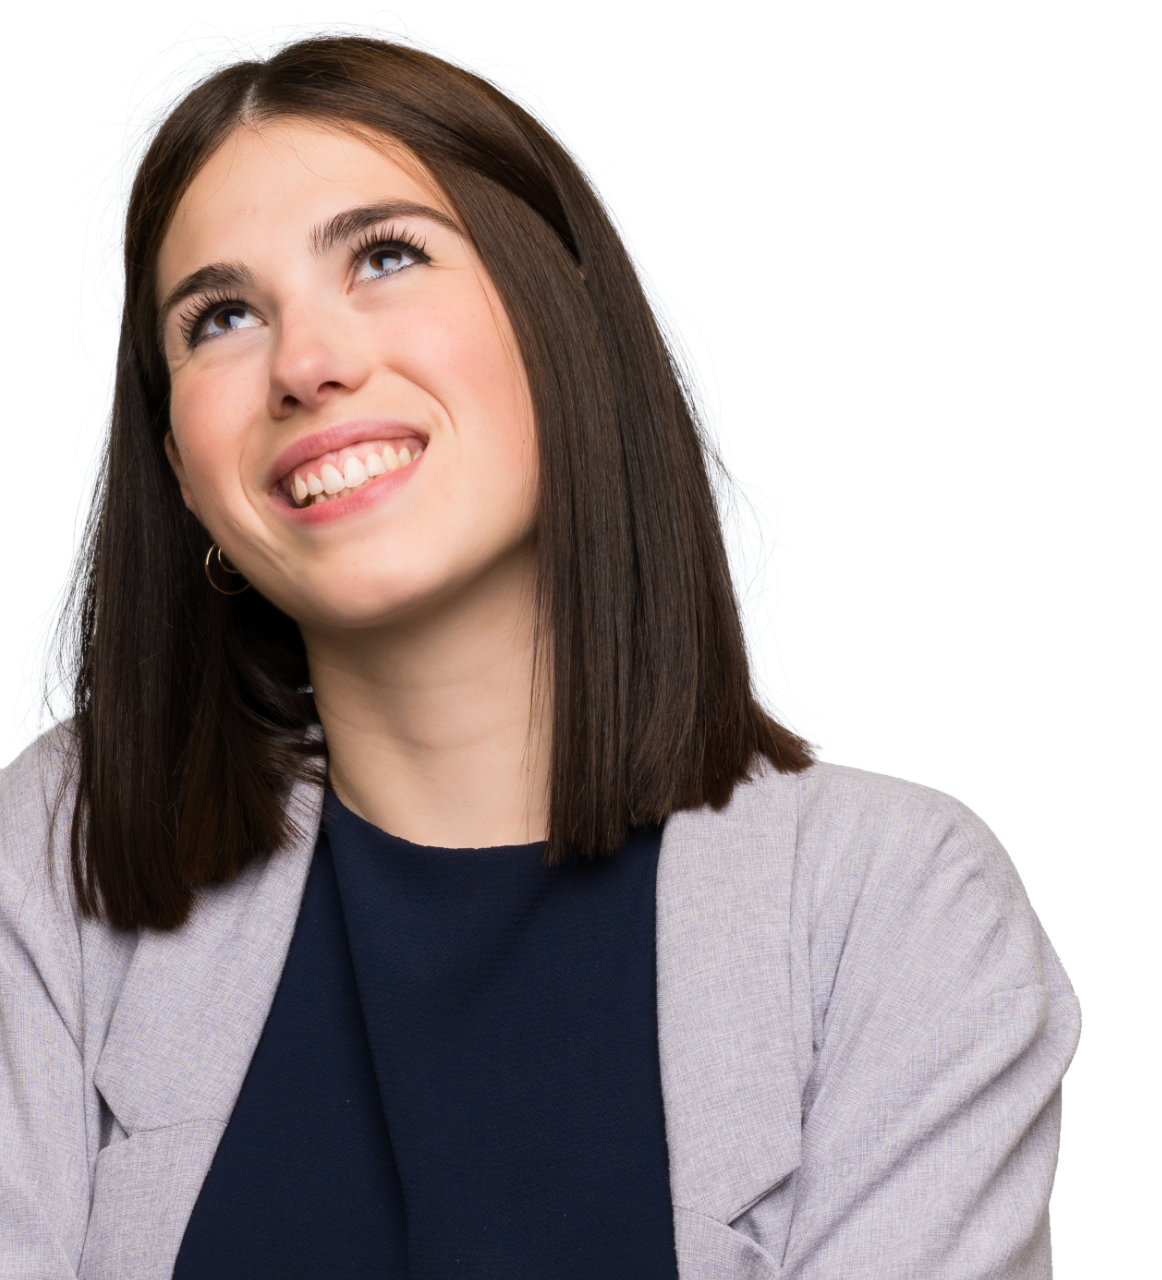
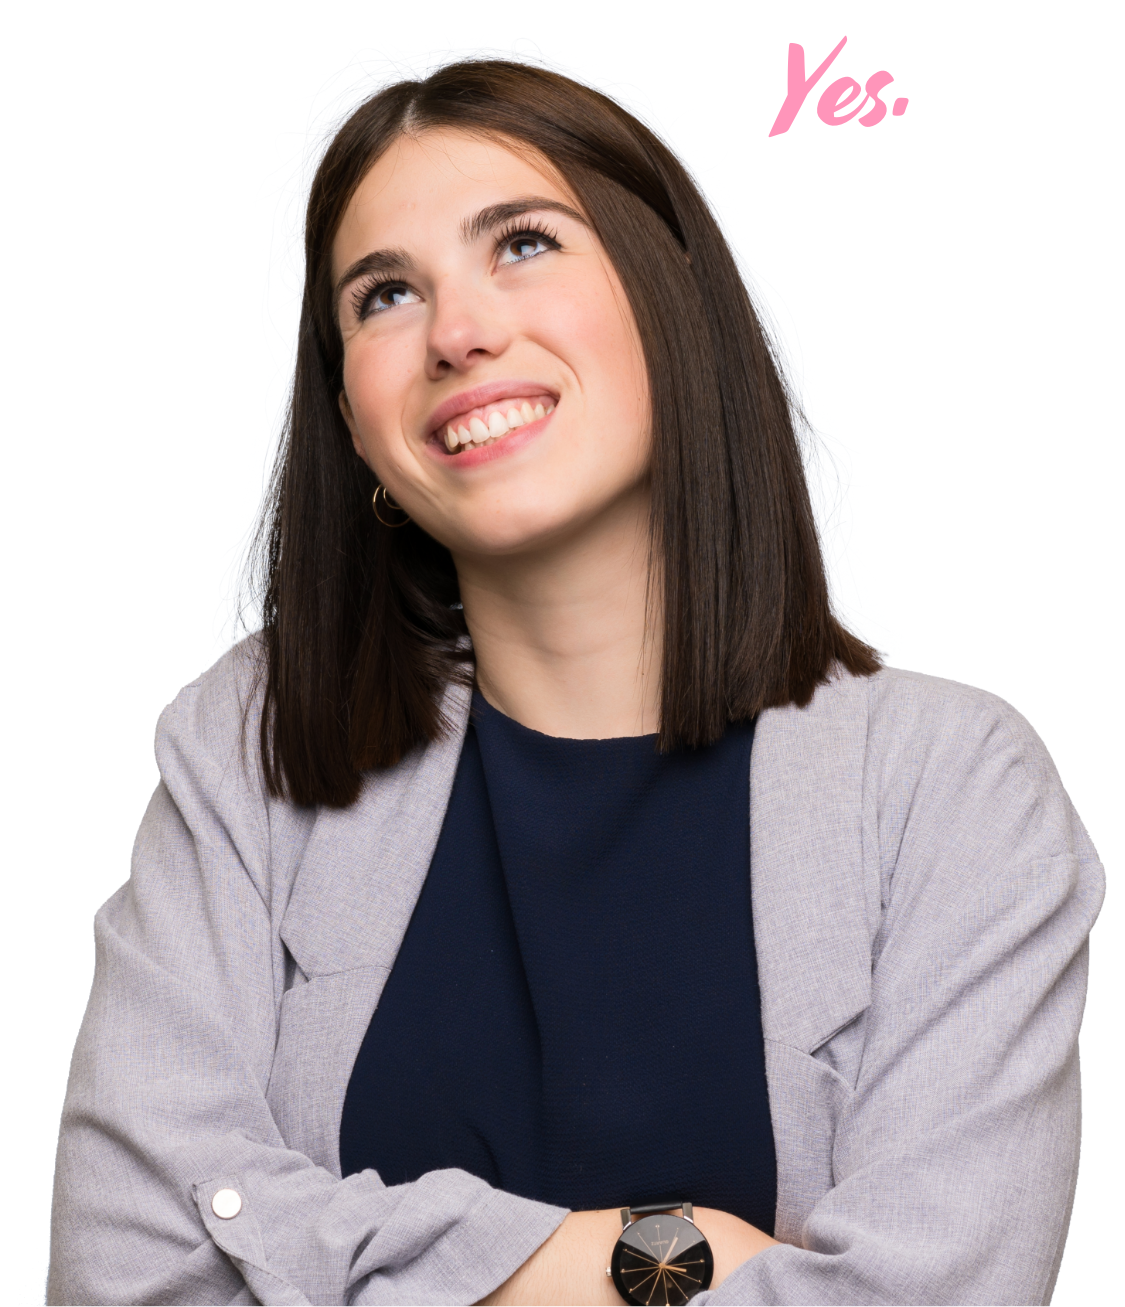
pink text built in

diff --git a/src/pages/index.js b/src/pages/index.js
@@ -10,16 +10,15 @@ import Subscription from '../components/Subscription';
 import About from '../components/About';
 import Menu from '../components/Menu';
 import Press from '../components/Press';
-import SuperPAC from '../components/SuperPAC';
 import BigSmallImage from '../elements/BigSmallImage';
 import thumbsDown from '../images/thumbs-down.png';
-import thumbsDownLarge from '../images/thumbs-down-large.png';
+import thumbsDownLarge from '../images/thumbs-down-large.jpg';
 import happyFace from '../images/happy-face.png';
-import happyFaceLarge from '../images/happy-face-large.png';
+import happyFaceLarge from '../images/happy-face-large.jpg';
 import texting from '../images/texting.png';
+import textingLarge from '../images/texting-large.jpg';
 import FAQ from '../components/FAQ';
 import Footer from '../components/Footer';
-import PinkText from '../elements/PinkText';
 
 const IndexPage = () => (
   <Layout>
@@ -28,20 +27,17 @@ const IndexPage = () => (
     <Intro withProductImage={true} />
     <Press />
     <Problem />
-    <div style={{ margin: '0 auto', maxWidth: '685px', position: 'relative' }}>
+    <div style={{ margin: '0 auto', maxWidth: '1222px', position: 'relative' }}>
       <BigSmallImage bigImageUrl={thumbsDownLarge} smallImageUrl={thumbsDown} />
-      <PinkText style={{ marginLeft: '100px', marginTop: '-20px', width: '275px' }} text="Seriously, Mrs. Meyers? WTF" />
     </div>
     <Solution />
     <div style={{ margin: '0 auto', maxWidth: '440px', position: 'relative' }}>
       <BigSmallImage bigImageUrl={happyFaceLarge} smallImageUrl={happyFace} />
-      <PinkText style={{ marginLeft: '135px' }} text="Yes." />
     </div>
     <Subscription />
     <Products />
-    <div style={{ margin: '50px auto 0 auto', maxWidth: '440px', position: 'relative' }}>
-      <img src={texting} />
-      <PinkText style={{ marginLeft: '128px' }} text="Sign me up!" />
+    <div style={{ margin: '0 auto', maxWidth: '1440px', position: 'relative' }}>
+      <BigSmallImage bigImageUrl={textingLarge} smallImageUrl={texting} />
     </div>
     <About />
     <FAQ />
